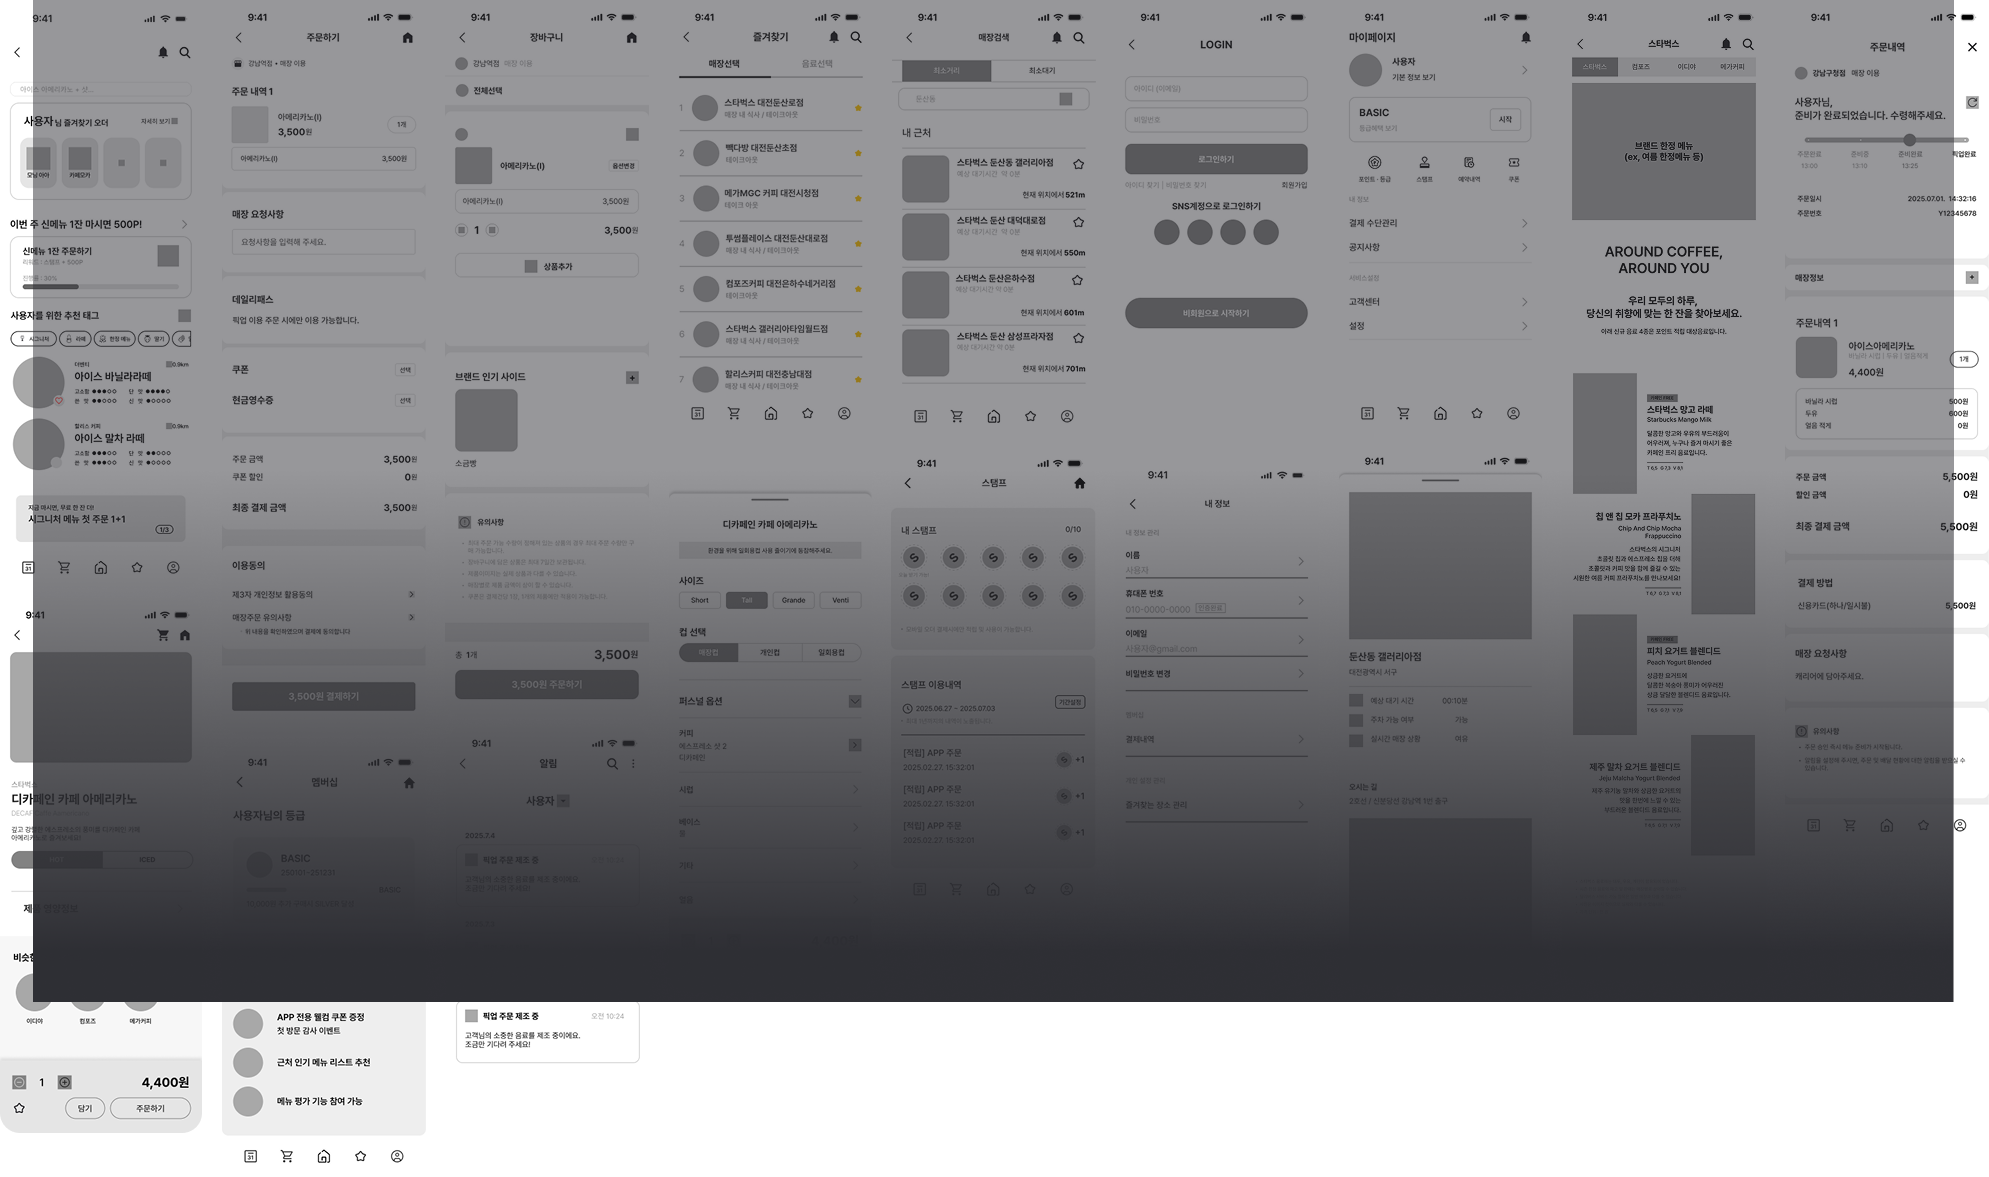
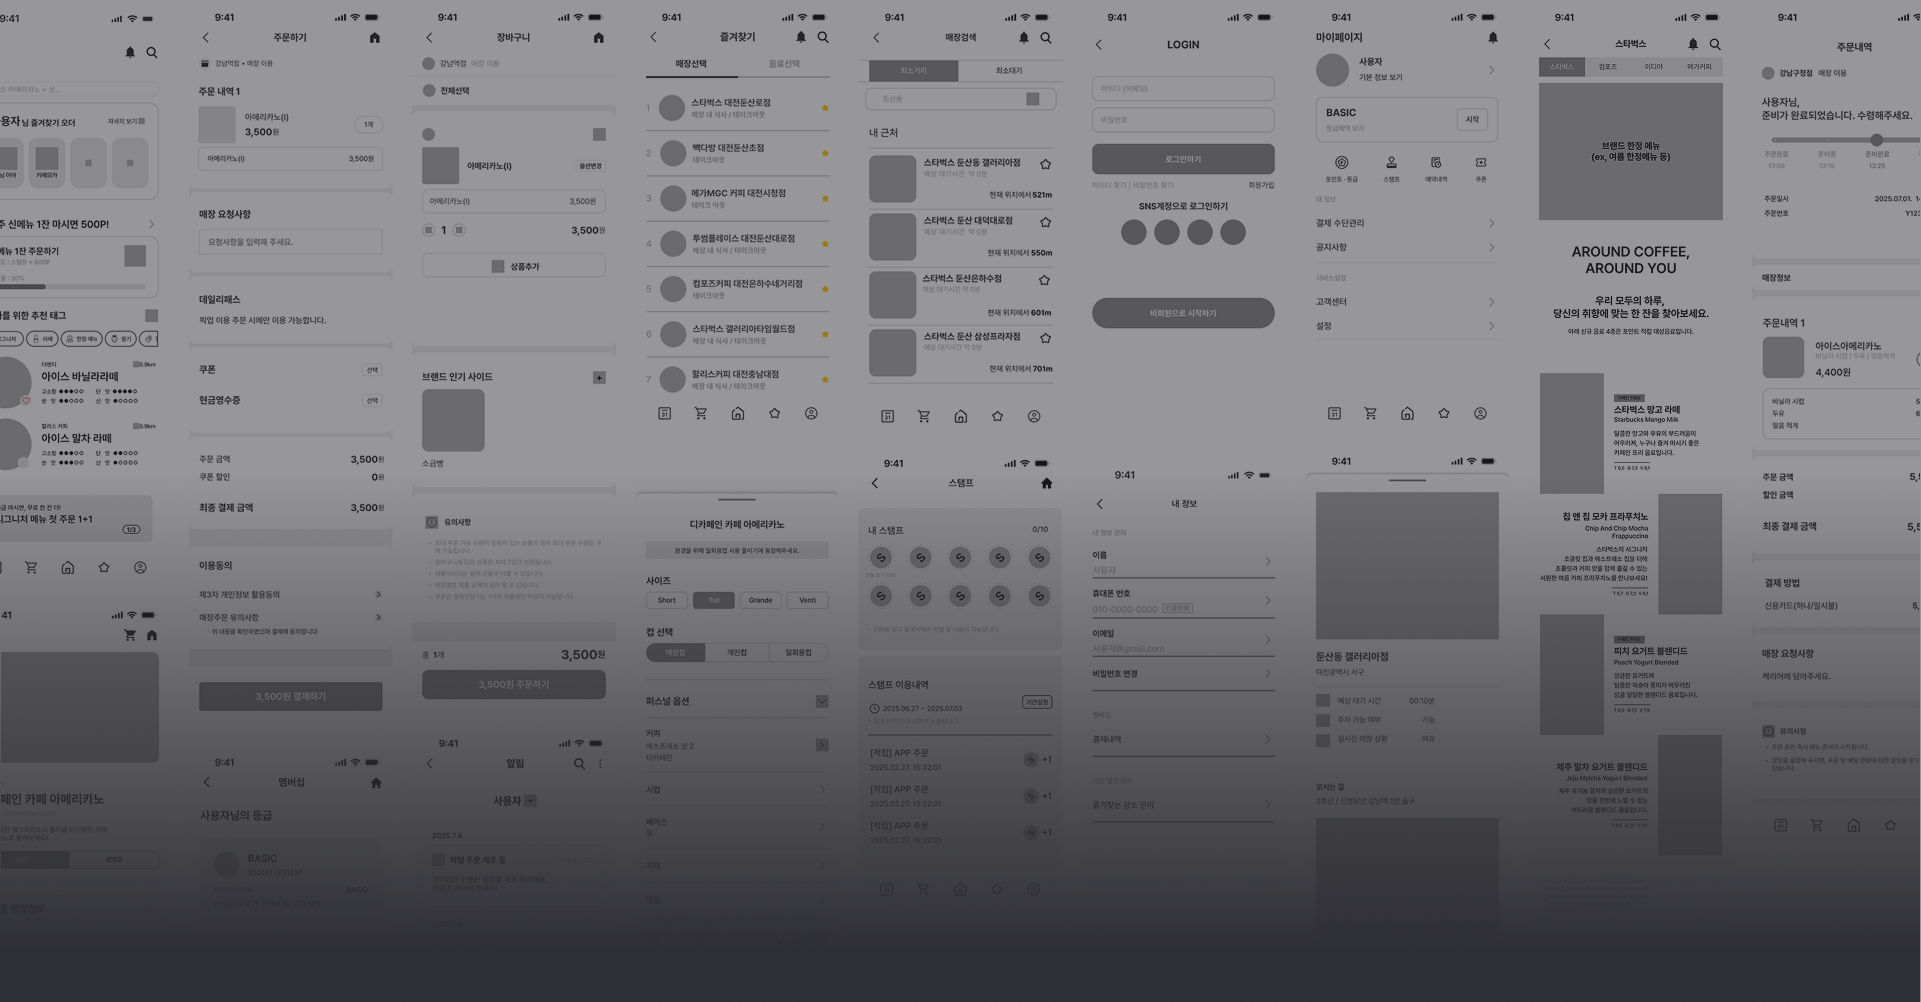
sec-10, 11, 13 애니메이션 추가

diff --git a/index.html b/index.html
@@ -9,6 +9,8 @@
   <script src="https://cdnjs.cloudflare.com/ajax/libs/gsap/3.13.0/gsap.min.js" integrity="sha512-NcZdtrT77bJr4STcmsGAESr06BYGE8woZdSdEgqnpyqac7sugNO+Tr4bGwGF3MsnEkGKhU2KL2xh6Ec+BqsaHA==" crossorigin="anonymous" referrerpolicy="no-referrer"></script>
   <!-- GSAP-SCROLL -->
   <script src="https://cdnjs.cloudflare.com/ajax/libs/gsap/3.13.0/ScrollTrigger.min.js"></script>
+ <!-- GSAP-TEXT -->
+  <script src="https://cdnjs.cloudflare.com/ajax/libs/gsap/3.12.5/TextPlugin.min.js" defer></script>
   <!-- AOS -->
   <link href="https://unpkg.com/aos@2.3.1/dist/aos.css" rel="stylesheet">
   <script src="https://unpkg.com/aos@2.3.1/dist/aos.js"></script>
@@ -773,12 +775,12 @@
   
             <div class="timeline_wrap">
               <h1 class="logo_title">
-                PREFEREMCE + PICK-UP = TAKE UP
+                PREFEREMCE <span> + PICK-UP = TAKE UP</span>
               </h1>
             </div>
   
             <div class="timeline_wrap">
-              <p class="logo_text">
+              <p class="logo_text create_10">
                 내가 선호하는 브랜드와 음료 취향을 바탕으로 나만의 루틴을 만들어가는 커피 추천 서비스 입니다. <br>
                 매일의 커피가 나만의 선택으로 이어지는 순간, 그 여정을 함께하는 의미를 로고와 서비스 네이밍에 담았습니다.
               </p>
@@ -822,26 +824,26 @@
         <ul class="design-st_img-box flex">
           <li>
             <div class="design-st_img-text">
-              <span>
+              <span class="create_11">
                 Typography
               </span>
             </div>
             <img src="./imgs/design-st_img1.png" alt="">
           </li>
           <li>
-            <div class="design-st_img-text">
-              <span>
+            <div class="design-st_img-text design-st_img-text-1">
+              <span class="create_12">
                 Icon
               </span>
             </div>
             <img src="./imgs/design-st_img2.png" alt="">
           </li>
           <li>
-            <div class="design-st_img-text">
-              <span>
+            <div class="design-st_img-text design-st_img-text-2">
+              <span class="create_13">
                 Colors
               </span>
-              <p>시선을 자연스럽게 이끌고 편안하게 다가오는 조화로운 컬러 조합을 반영했습니다.</p>
+              <p class="create_14">시선을 자연스럽게 이끌고 편안하게 다가오는 조화로운 컬러 조합을 반영했습니다.</p>
             </div>
             <img src="./imgs/design-st_img3.png" alt="">
           </li>
@@ -900,7 +902,7 @@
       <!-- 와이어프레임 시작 -->
       <section class="sec-14 con">
         <div class="wire-fm_back-img back-img">
-          <img src="" alt="">
+          <img src="./imgs/wire-fram_img2.png" alt="">
         </div>
         <div class="sec-14_text-wrap text-wrap flex">
 
@@ -927,9 +929,9 @@
       </section>
       <!-- 와이어프레임 끝 -->
 
-      <!-- 카테고리 초이스 시작 -->
+      <!-- 어플 소개 메인 시작 -->
       <section class="sec-15 con"></section>
-      <!-- 카테고리 초이스 끝 -->
+      <!-- 어플 소개 메인 끝 -->
 
       <!-- 주문하기 시작 -->
       <section class="sec-16 con"></section>

diff --git a/style.css b/style.css
@@ -106,13 +106,17 @@ a {
   opacity: 0;
 }
 
-.create_2,   .create_3, .create_8, .create_9 {
+.create_2,   .create_3, .create_8, .create_9, .create_10 {
   transform: translateY(-100%);
   opacity: 0;
 }
 
-.create_7 {
+.create_7, .create_11, .create_12, .create_13  {
   transform: translateX(-100%);
+  opacity: 0;
+}
+
+.create_14, .create_15 {
   opacity: 0;
 }
 
@@ -1127,6 +1131,7 @@ animation: zoomIn 1.2s ease-out  forwards;
       align-items: end;
       margin-bottom: 42px;
       gap: 14px;
+      overflow: hidden;
     }
 
     .design-st_img-box .design-st_img-text span {
@@ -1214,12 +1219,33 @@ animation: zoomIn 1.2s ease-out  forwards;
     .flow-ch_img-box {
       justify-content: center;
     }
+
+    .animate__pulse {
+      transform-origin: bottom center;          /* 꼭대기 축으로 흔들림 */
+      animation: pulse 1s ease-in-out forwards;
+      animation-iteration-count: 3;
+      /* animation: swing 1s ease-in-out both;  both = 시작/끝 상태 유지 */
+    }
+
+    @keyframes pulse {
+      /* 
+      animate__swing
+      20%  { transform: rotate3d(0, 0, 1, 15deg); }
+      40%  { transform: rotate3d(0, 0, 1, -10deg); }
+      60%  { transform: rotate3d(0, 0, 1, 5deg); }
+      80%  { transform: rotate3d(0, 0, 1, -5deg); }
+      100% { transform: rotate3d(0, 0, 1, 0deg); } */
+      0%   { transform: scale(1); }
+      50%  { transform: scale(1.1); } /* 중간에 살짝 커짐 */
+      100% { transform: scale(1); }    /* 다시 원래 크기 */
+    }
     /* <!-- 플로우차트 끝 --> */
 
     /* <!-- 와이어프레임 시작 --> */
     .sec-14 {
       height: 1300px;
       background-color: var(--color-background);
+      position: relative;
     }
 
     .sec-14_text-wrap {
@@ -1243,11 +1269,23 @@ animation: zoomIn 1.2s ease-out  forwards;
     .wire-fm_img-box {
       justify-content: center;
       overflow: hidden;
+      position: relative;
+      z-index: 1;
+    }
+
+    .wire-fm_back-img {
+      position: absolute;
+      top: 0;
+      left: 50%;
+      transform: translateX(-50%);
     }
     /* <!-- 와이어프레임 끝 --> */
 
-    /* <!-- 카테고리 초이스 시작 --> */
-    /* <!-- 카테고리 초이스 끝 --> */
+    /* <!-- 어플 소개 메인 시작 --> */
+    .sec-15 { 
+      height: 1080px;
+    }
+    /* <!-- 어플 소개 메인 끝 --> */
 
     /* <!-- 주문하기 시작 --> */
     /* <!-- 주문하기 끝 --> */

diff --git a/script.js b/script.js
@@ -311,3 +311,107 @@ tl_6.to(".create_9", {
   duration: 1.2,    
   opacity: 1
 });
+
+// sec-10 로고 애니메이션
+let text = document.querySelector(".logo_title > span");
+let content = text.textContent;
+text.textContent = ""; // 처음엔 비워두기
+
+let tl_7 = gsap.timeline({
+  scrollTrigger: {
+    trigger: ".sec-10",       
+    start: "top 30%",      
+    toggleActions: "play none none none" ,     
+    // markers: true,
+  },
+
+  defaults: {
+    ease: "power4.out" 
+  }
+});
+
+tl_7.to(text, {
+  duration: 2,
+ text: content,
+ ease: "none"
+});
+
+tl_7.to(".create_10", {
+  y: '0%',          
+  duration: 1.2,    
+  opacity: 1
+});
+
+// sec-11 디자인 시스템 애니메이션
+// let text2 = document.querySelector(".design-st_img-text-2 > p");
+// let content2 = text2.textContent;
+// text2.textContent = ""; // 처음엔 비워두기
+
+let tl_8 = gsap.timeline({
+  scrollTrigger: {
+    trigger: ".sec-11",       
+    start: "top 30%",      
+    toggleActions: "play none none none" ,     
+    // markers: true,
+  },
+
+  defaults: {
+    ease: "power4.out" 
+  }
+});
+
+tl_8.to(".create_11", {
+  x: '0%',          
+  duration: 1.2,    
+  opacity: 1
+});
+
+tl_8.to(".create_12", {
+  x: '0%',          
+  duration: 1.2,    
+  opacity: 1
+}, "-=.5");
+
+tl_8.to(".create_13", {
+  x: '0%',          
+  duration: 1.2,    
+  opacity: 1
+}, "-=.5");
+
+tl_8.to(".create_14", {      
+  duration: 1.2,    
+  opacity: 1
+}, "-=.5");
+
+// tl_8.to(text2, {
+// duration: 1.2,
+//  text: content2,
+//  ease: "none"
+// });
+
+//sec-12 컴포넌트 애니메이션 없음
+
+//sec-13 플로우차트 애니메이션 
+let tl_9 = gsap.timeline({
+  scrollTrigger: {
+    trigger: ".sec-13",       
+    start: "top 40%",      
+    toggleActions: "play none none none" ,     
+    markers: true,
+  },
+
+  defaults: {
+    ease: "power4.out" 
+  }
+});
+
+tl_9.to(".create_15", {
+  onComplete: () => {
+    // 여기서 .swing 클래스 추가
+    const items = document.querySelectorAll(".flow-ch_btn-box > span");
+
+    items.forEach(el => {
+      el.classList.add("animate__pulse"); // 애니메이션 실행
+    });
+  }
+});
